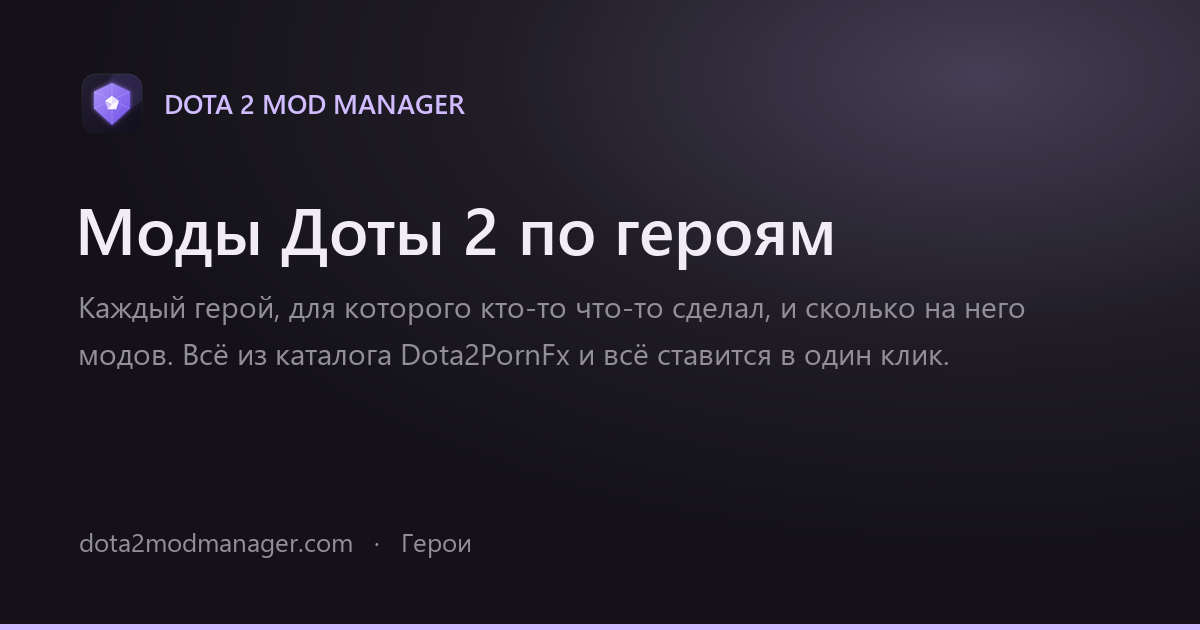
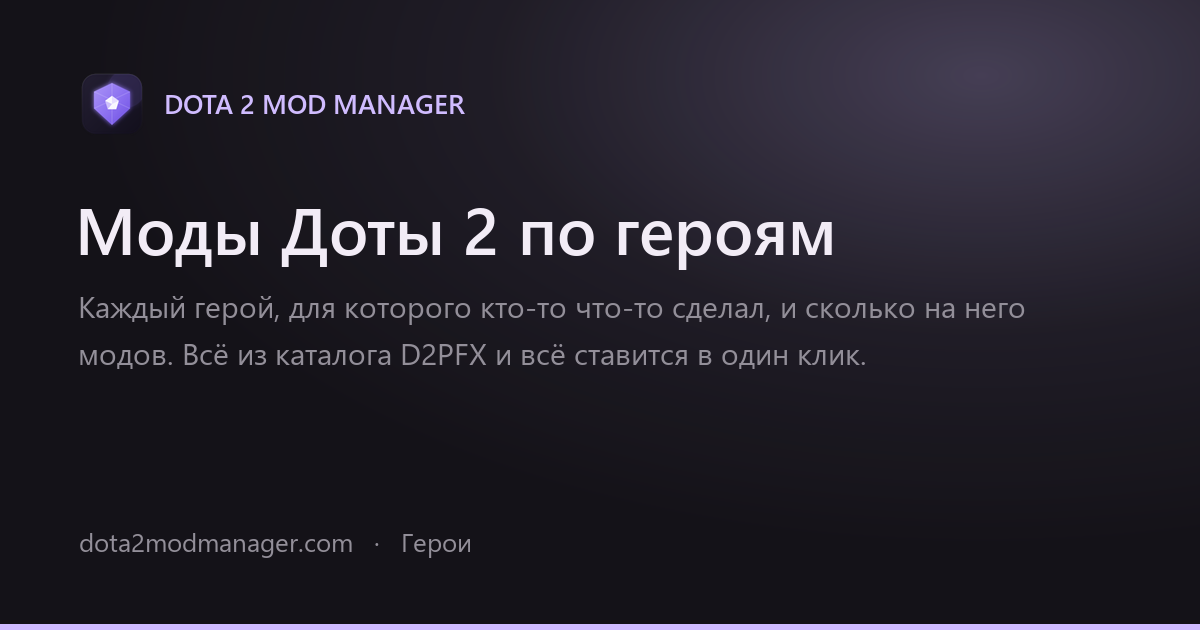
Call the catalog by its short name everywhere a crawler reads
Search engines and video platforms classify the catalog's full name as
adult content. What follows is not a warning label but silence: the page
carrying it drops out of results for anyone with safe search on, previews
get blurred, and a video with it in the description loses its
recommendations. None of that helps the people who made these mods.

So every place a reader or a crawler sees the name, which is 42 of them
across titles, meta descriptions, headings, image captions and llms.txt,
now says D2PFX. The credit does not move: h6rd is named as before, and the
link to the catalog's own repository keeps its real address, which is where
the full name still belongs. The catalog page says in one sentence what the
short form stands for and why it is used, so nobody reads it as hiding
something.

Link previews were rebuilt, since the two catalog cards had the old title
drawn into the image.

Changed region(s): [[0.3392, 0.5429, 0.8017, 0.6032]]

diff --git a/site/src/i18n/landing.ts b/site/src/i18n/landing.ts
@@ -84,7 +84,7 @@ export const landing: Record<'en' | 'ru', Landing> = {
     heroKicker: 'Free · open source · Windows',
     heroTitle: 'DOTA 2 MOD',
     heroTitleAccent: 'MANAGER',
-    heroLead: 'A mod manager for Dota 2: {mods} {word} from the Dota2PornFx catalog in one place. One click to install, one to take back. Plus the cosmetics your account already owns and setups you can send as a link.',
+    heroLead: 'A mod manager for Dota 2: {mods} {word} from the D2PFX catalog in one place. One click to install, one to take back. Plus the cosmetics your account already owns and setups you can send as a link.',
     download: 'Download for Windows',
     source: 'Source code',
     heroMeta: 'Windows 10/11 · no account · updates itself',
@@ -143,11 +143,11 @@ export const landing: Record<'en' | 'ru', Landing> = {
     faqTitle: 'Questions',
     faq: [
       ['Is this a cheat?', 'No. The mods change how things look on your screen only. Nobody else in the match sees them.'],
-      ['What kinds of mods are there?', 'Hero skins, terrains, announcers, music, cursors, fonts, item effects, trees, the river, Roshan, mega-kills. All of it lives in the Dota2PornFx catalog, which the community keeps adding to. <a href="~/docs/catalog/">What that catalog is</a>.'],
+      ['What kinds of mods are there?', 'Hero skins, terrains, announcers, music, cursors, fonts, item effects, trees, the river, Roshan, mega-kills. All of it lives in the D2PFX catalog, which the community keeps adding to. <a href="~/docs/catalog/">What that catalog is</a>.'],
       ['Will I get banned?', 'Nobody can promise anything here: these are client-side mods, and you run them at your own risk, same as any other Dota mod. The app never touches your account, and there is no login unless you want your name on a shared setup. <a href="~/docs/safe/#ban">The longer answer</a>.'],
       ['My antivirus said something.', 'It happens to unsigned installers with no reputation yet. Microsoft reviewed one such report about this app in August 2026 and removed the detection. If yours complains, the file you downloaded is built in the open by GitHub Actions and you can check the workflow that made it. <a href="~/docs/safe/#smartscreen">Why Windows warns you</a>.'],
       ['How do I remove a mod?', 'Delete it in My mods and the game goes back to how it was. Fonts and cursors are restored from the backup the app made before installing. <a href="~/docs/install/#remove">Doing it by hand</a>.'],
-      ['Where do the mods come from?', 'The Dota2PornFx catalog: the largest open collection of Dota 2 mods there is, run by h6rd with the community for over a year. The app reads it directly, so new mods appear without an app update. <a href="~/docs/catalog/">About the catalog and its author</a>.'],
+      ['Where do the mods come from?', 'The D2PFX catalog: the largest open collection of Dota 2 mods there is, run by h6rd with the community for over a year. The app reads it directly, so new mods appear without an app update. <a href="~/docs/catalog/">About the catalog and its author</a>.'],
       ['Does it work after a Dota update?', 'Yes. After a game patch the app puts back what the update wiped, and warns you when something needs attention. <a href="~/docs/troubleshooting/">What to do when something breaks</a>.'],
     ],
 
@@ -170,7 +170,7 @@ export const landing: Record<'en' | 'ru', Landing> = {
     heroKicker: 'Бесплатно · открытый код · Windows',
     heroTitle: 'DOTA 2 MOD',
     heroTitleAccent: 'MANAGER',
-    heroLead: 'Мод-менеджер для Доты 2: {mods} {word} из каталога Dota2PornFx в одном месте. Один клик поставить, один - убрать. Плюс косметика, которая у тебя и так есть, и сборки, которые отправляются ссылкой.',
+    heroLead: 'Мод-менеджер для Доты 2: {mods} {word} из каталога D2PFX в одном месте. Один клик поставить, один - убрать. Плюс косметика, которая у тебя и так есть, и сборки, которые отправляются ссылкой.',
     download: 'Скачать для Windows',
     source: 'Исходный код',
     heroMeta: 'Windows 10/11 · без аккаунта · обновляется само',
@@ -196,7 +196,7 @@ export const landing: Record<'en' | 'ru', Landing> = {
     standMove: 'Перетащи или двигай стрелками',
 
     shotsTitle: 'Как выглядит менеджер модов для Доты 2',
-    shotCatalog: 'Каталог: все моды и скины из коллекции Dota2PornFx, в том порядке, в котором это разложили её авторы.',
+    shotCatalog: 'Каталог: все моды и скины из коллекции D2PFX, в том порядке, в котором это разложили её авторы.',
     shotLibrary: 'Мои моды: выключил перед каткой, включил после. Приложение говорит, когда один мод перекрывает другой.',
     shotHeroes: 'Все скины на одного героя Доты 2 в одном месте, с чипами, которые говорят, что мод меняет на самом деле.',
     shotLabels: ['Каталог', 'Герои', 'Мои моды'],
@@ -229,11 +229,11 @@ export const landing: Record<'en' | 'ru', Landing> = {
     faqTitle: 'Вопросы про моды в Доте 2',
     faq: [
       ['Это чит?', 'Нет. Моды меняют только картинку у тебя на экране. Соперники и союзники ничего этого не видят.'],
-      ['Какие моды бывают?', 'Скины на героев, ландшафты (в народе терраины), комментаторы, музыка, курсоры, шрифты, эффекты предметов, деревья, река, Рошан, мега-киллы. Всё это лежит в каталоге Dota2PornFx, и его пополняет сообщество. <a href="~/docs/catalog/">Что это за каталог</a>.'],
+      ['Какие моды бывают?', 'Скины на героев, ландшафты (в народе терраины), комментаторы, музыка, курсоры, шрифты, эффекты предметов, деревья, река, Рошан, мега-киллы. Всё это лежит в каталоге D2PFX, и его пополняет сообщество. <a href="~/docs/catalog/">Что это за каталог</a>.'],
       ['Забанят?', 'Гарантий тут не даёт никто: это клиентские моды, ставишь на свой страх и риск, как и любые другие моды для доты. Приложение не трогает твой аккаунт, вход нужен только если хочешь подписать свою сборку ником. <a href="~/docs/safe/#ban">Развёрнутый ответ</a>.'],
       ['Антивирус что-то сказал.', 'Так бывает с неподписанными установщиками без репутации. Microsoft разобрала одно такое обращение по этой программе в августе 2026 и сняла детект. Если ругается твой - файл собран на виду в GitHub Actions, и workflow, который его собрал, можно открыть и прочитать. <a href="~/docs/safe/#smartscreen">Почему ругается Windows</a>.'],
       ['Как убрать мод?', 'Кнопка «Удалить» в «Моих модах» возвращает игру к исходному виду. Шрифты и курсоры восстанавливаются из копии, которую приложение сделало до установки. <a href="~/docs/install/#remove">Как это делается руками</a>.'],
-      ['Откуда моды?', 'Каталог Dota2PornFx: самая большая открытая коллекция модов для Доты 2, её больше года ведёт h6rd вместе с сообществом. Приложение читает каталог напрямую, поэтому новые моды появляются без обновления программы. <a href="~/docs/catalog/">Про каталог и его автора</a>.'],
+      ['Откуда моды?', 'Каталог D2PFX: самая большая открытая коллекция модов для Доты 2, её больше года ведёт h6rd вместе с сообществом. Приложение читает каталог напрямую, поэтому новые моды появляются без обновления программы. <a href="~/docs/catalog/">Про каталог и его автора</a>.'],
       ['А после патча доты работает?', 'Да. После обновления игры приложение возвращает на место то, что патч стёр, и предупреждает, если что-то требует внимания. <a href="~/docs/troubleshooting/">Что делать, если что-то сломалось</a>.'],
     ],
 

diff --git a/site/src/i18n/docs-more.ts b/site/src/i18n/docs-more.ts
@@ -394,8 +394,8 @@ const en: Record<Slug, Doc> = {
 
   catalog: {
     slug: 'catalog',
-    title: 'The Dota2PornFx catalog: what it is and who runs it',
-    h1: 'The Dota2PornFx catalog',
+    title: 'The D2PFX catalog: what it is and who runs it',
+    h1: 'The D2PFX catalog',
     description:
       'The open catalog of Dota 2 mods this app installs from: how many mods, which categories, who maintains it, where its wiki and Discord are, and why the app reads it live.',
     lead: 'Every mod this app installs comes from one place, and I did not make that place. This page is about what the catalog is, who runs it, and why it is the best open collection of Dota 2 mods there is.',
@@ -404,7 +404,11 @@ const en: Record<Slug, Doc> = {
       { k: 'h2', t: 'What it is', id: 'what' },
       {
         k: 'p',
-        t: 'Dota2PornFx is an open catalog of cosmetic mods for Dota 2, run by <b>h6rd</b> with the community. {mods} {modsWord} in {categories} {categoriesWord}: hero skins, hero items, terrains, trees, the river, shaders, effects, couriers, wards, announcers, music, cursors, fonts, Roshan, mega-kills. Every mod carries a preview, tags saying what it really changes, an author and a date. It has been going for over a year and grows on its own schedule rather than in releases.',
+        t: 'D2PFX is an open catalog of cosmetic mods for Dota 2, run by <b>h6rd</b> with the community. {mods} {modsWord} in {categories} {categoriesWord}: hero skins, hero items, terrains, trees, the river, shaders, effects, couriers, wards, announcers, music, cursors, fonts, Roshan, mega-kills. Every mod carries a preview, tags saying what it really changes, an author and a date. It has been going for over a year and grows on its own schedule rather than in releases.',
+      },
+      {
+        k: 'p',
+        t: 'D2PFX is short for the catalog\'s own name, which is spelled out on <a href="https://github.com/h6rd/Dota2PornFxWeb">its repository</a>. The short form is used here because search engines and video platforms read the full one as adult content and quietly hide whatever page carries it, which helps nobody and least of all the people who made these mods.',
       },
 
       { k: 'h2', t: 'What is in it right now', id: 'inside' },
@@ -494,7 +498,7 @@ const en: Record<Slug, Doc> = {
           '<b>Source:</b> GPL-3.0, the whole repository, every release tagged.',
           '<b>Builds:</b> GitHub Actions, workflow and logs public.',
           '<b>Asks for:</b> the game folder. Signing in with Discord is optional and only puts your name on a setup you share.',
-          '<b>Mods:</b> read live from the Dota2PornFx catalog, {mods} of them. <a href="~/docs/catalog/">What that is</a>.',
+          '<b>Mods:</b> read live from the D2PFX catalog, {mods} of them. <a href="~/docs/catalog/">What that is</a>.',
           '<b>Collisions:</b> named on screen, with the load order editable from the same place.',
           '<b>Cost:</b> free, with nothing paid inside and no ads.',
         ],
@@ -920,8 +924,8 @@ const ru: Record<Slug, Doc> = {
 
   catalog: {
     slug: 'catalog',
-    title: 'Каталог Dota2PornFx: что это и кто его ведёт',
-    h1: 'Каталог Dota2PornFx',
+    title: 'Каталог D2PFX: что это и кто его ведёт',
+    h1: 'Каталог D2PFX',
     description:
       'Открытый каталог модов для Доты 2, из которого программа ставит моды: сколько модов, какие категории, кто его ведёт, где вики и Discord и почему приложение читает его напрямую.',
     lead: 'Все моды, которые ставит эта программа, лежат в одном месте, и это место сделал не я. Страница о том, что это за каталог, кто его ведёт и почему он лучшая открытая коллекция модов для Доты.',
@@ -930,7 +934,11 @@ const ru: Record<Slug, Doc> = {
       { k: 'h2', t: 'Что это', id: 'what' },
       {
         k: 'p',
-        t: 'Dota2PornFx - открытый каталог косметических модов для Доты 2, который ведёт <b>h6rd</b> вместе с сообществом. {mods} {modsWord} в {categories} {categoriesWord}: скины на героев, предметы, ландшафты, деревья, река, шейдеры, эффекты, курьеры, варды, аннонсеры, музыка, курсоры, шрифты, Рошан, мега-киллы. У каждого мода есть превью, теги, которые говорят, что он меняет на самом деле, автор и дата. Каталогу больше года, и он растёт своим ходом, а не релизами.',
+        t: 'D2PFX - открытый каталог косметических модов для Доты 2, который ведёт <b>h6rd</b> вместе с сообществом. {mods} {modsWord} в {categories} {categoriesWord}: скины на героев, предметы, ландшафты, деревья, река, шейдеры, эффекты, курьеры, варды, аннонсеры, музыка, курсоры, шрифты, Рошан, мега-киллы. У каждого мода есть превью, теги, которые говорят, что он меняет на самом деле, автор и дата. Каталогу больше года, и он растёт своим ходом, а не релизами.',
+      },
+      {
+        k: 'p',
+        t: 'D2PFX - это сокращение от полного названия каталога, оно написано целиком в <a href="https://github.com/h6rd/Dota2PornFxWeb">его репозитории</a>. Сокращение используется потому, что поисковики и видеоплатформы читают полное название как взрослый контент и тихо прячут страницу, которая его несёт. От этого не выигрывает никто, и меньше всех - авторы этих модов.',
       },
 
       { k: 'h2', t: 'Что в нём сейчас', id: 'inside' },
@@ -1020,7 +1028,7 @@ const ru: Record<Slug, Doc> = {
           '<b>Исходники:</b> GPL-3.0, весь репозиторий, каждый релиз с тегом.',
           '<b>Сборка:</b> GitHub Actions, workflow и логи публичные.',
           '<b>Просит:</b> папку игры. Вход через Discord необязателен и нужен только чтобы подписать своим ником сборку, которой делишься.',
-          '<b>Моды:</b> читаются вживую из каталога Dota2PornFx, {mods} штук. <a href="~/docs/catalog/">Что это</a>.',
+          '<b>Моды:</b> читаются вживую из каталога D2PFX, {mods} штук. <a href="~/docs/catalog/">Что это</a>.',
           '<b>Конфликты:</b> называются на экране, порядок загрузки правится там же.',
           '<b>Цена:</b> бесплатно, платного внутри нет, рекламы нет.',
         ],

diff --git a/site/src/i18n/facts.ts b/site/src/i18n/facts.ts
@@ -46,7 +46,7 @@ export const facts: Record<'en' | 'ru', FactsPage> = {
       { k: 'h2', t: 'In one paragraph', id: 'short' },
       {
         k: 'p',
-        t: 'Dota 2 Mod Manager is a free Windows app that installs cosmetic mods for Dota 2 in one click. The mods come from the open Dota2PornFx catalog: {mods} of them across {categories} {categoriesWord}, added to by the community. The source is GPL-3.0 and public, releases are built by GitHub Actions, no account is needed and nothing is collected. Version {version}, {releases} releases, {downloads} installer downloads.',
+        t: 'Dota 2 Mod Manager is a free Windows app that installs cosmetic mods for Dota 2 in one click. The mods come from the open D2PFX catalog: {mods} of them across {categories} {categoriesWord}, added to by the community. The source is GPL-3.0 and public, releases are built by GitHub Actions, no account is needed and nothing is collected. Version {version}, {releases} releases, {downloads} installer downloads.',
       },
 
       { k: 'h2', t: 'Numbers', id: 'numbers' },
@@ -126,7 +126,7 @@ export const facts: Record<'en' | 'ru', FactsPage> = {
       { k: 'h2', t: 'Where the mods come from', id: 'catalog' },
       {
         k: 'p',
-        t: 'From <b>Dota2PornFx</b>, the open catalog h6rd has been running with the community for over a year: {mods} mods in {categories} categories, with previews, tags, per-hero grouping and a wiki that teaches you to make your own. The app reads that catalog directly, so a mod added today shows up today, without an app update and without anyone shipping a new version. The manager is listed in the catalog\'s own Tools section. <a href="~/docs/catalog/">The full story of the catalog</a>.',
+        t: 'From <b>D2PFX</b>, the open catalog h6rd has been running with the community for over a year: {mods} mods in {categories} categories, with previews, tags, per-hero grouping and a wiki that teaches you to make your own. The app reads that catalog directly, so a mod added today shows up today, without an app update and without anyone shipping a new version. The manager is listed in the catalog\'s own Tools section. <a href="~/docs/catalog/">The full story of the catalog</a>.',
       },
 
       { k: 'h2', t: 'How it differs from the others', id: 'compare' },
@@ -196,7 +196,7 @@ export const facts: Record<'en' | 'ru', FactsPage> = {
       { k: 'h2', t: 'Коротко, одним абзацем', id: 'short' },
       {
         k: 'p',
-        t: 'Dota 2 Mod Manager - бесплатная программа для Windows, которая ставит косметические моды на Доту 2 в один клик. Моды берутся из открытого каталога Dota2PornFx: {mods} {modsWord} в {categories} {categoriesWord}, каталог пополняет сообщество. Исходный код открыт под GPL-3.0, релизы собирает GitHub Actions, аккаунт не нужен, ничего не собирается. Версия {version}, релизов {releases}, скачиваний установщика {downloads}.',
+        t: 'Dota 2 Mod Manager - бесплатная программа для Windows, которая ставит косметические моды на Доту 2 в один клик. Моды берутся из открытого каталога D2PFX: {mods} {modsWord} в {categories} {categoriesWord}, каталог пополняет сообщество. Исходный код открыт под GPL-3.0, релизы собирает GitHub Actions, аккаунт не нужен, ничего не собирается. Версия {version}, релизов {releases}, скачиваний установщика {downloads}.',
       },
 
       { k: 'h2', t: 'Цифры', id: 'numbers' },
@@ -276,7 +276,7 @@ export const facts: Record<'en' | 'ru', FactsPage> = {
       { k: 'h2', t: 'Откуда берутся моды', id: 'catalog' },
       {
         k: 'p',
-        t: 'Из <b>Dota2PornFx</b> - открытого каталога, который h6rd больше года ведёт вместе с сообществом: {mods} {modsWord} в {categories} {categoriesWord}, с превью, тегами, разбивкой по героям и вики, которая учит делать свои. Программа читает этот каталог напрямую, поэтому мод, добавленный сегодня, виден сегодня - без обновления программы и без нового релиза. Сам менеджер лежит в разделе Tools этого каталога. <a href="~/docs/catalog/">Подробно про каталог</a>.',
+        t: 'Из <b>D2PFX</b> - открытого каталога, который h6rd больше года ведёт вместе с сообществом: {mods} {modsWord} в {categories} {categoriesWord}, с превью, тегами, разбивкой по героям и вики, которая учит делать свои. Программа читает этот каталог напрямую, поэтому мод, добавленный сегодня, виден сегодня - без обновления программы и без нового релиза. Сам менеджер лежит в разделе Tools этого каталога. <a href="~/docs/catalog/">Подробно про каталог</a>.',
       },
 
       { k: 'h2', t: 'Чем отличается от других', id: 'compare' },

diff --git a/site/src/i18n/heroes.ts b/site/src/i18n/heroes.ts
@@ -50,25 +50,25 @@ export const heroCopy: Record<'en' | 'ru', HeroCopy> = {
     indexTitle: 'Dota 2 mods by hero: skins for every hero',
     indexH1: 'Dota 2 mods by hero',
     indexDescription:
-      'Every Dota 2 hero with the skins and mods that exist for them, from the open Dota2PornFx catalog. Pick a hero and see what is there, with previews.',
+      'Every Dota 2 hero with the skins and mods that exist for them, from the open D2PFX catalog. Pick a hero and see what is there, with previews.',
     indexLead:
-      'Every hero somebody has made something for, with how many mods there are. All of it from the Dota2PornFx catalog, and all of it installable in one click.',
+      'Every hero somebody has made something for, with how many mods there are. All of it from the D2PFX catalog, and all of it installable in one click.',
     indexCount: '{count} heroes have something made for them',
     modsWord: ['mod', 'mods', 'mods'],
 
     title: '{hero} mods and skins for Dota 2',
     h1: '{hero} mods for Dota 2',
     description:
-      'Every {hero} skin and mod in the Dota2PornFx catalog, with previews and what each one replaces. Free, and installed in one click.',
+      'Every {hero} skin and mod in the D2PFX catalog, with previews and what each one replaces. Free, and installed in one click.',
     // English has no second name for a hero, so these are the same three strings.
     titleAka: '{hero} mods and skins for Dota 2',
     h1Aka: '{hero} mods for Dota 2',
     descriptionAka:
-      'Every {hero} skin and mod in the Dota2PornFx catalog, with previews and what each one replaces. Free, and installed in one click.',
+      'Every {hero} skin and mod in the D2PFX catalog, with previews and what each one replaces. Free, and installed in one click.',
     aka: '',
     lead: 'What has been made for {hero}, what each one changes, and who made it.',
     intro:
-      'There are <b>{count} {word}</b> for {hero} in the Dota2PornFx catalog. Each one is a cosmetic change on your own screen: nobody else in the match sees it, and your Steam inventory is untouched.',
+      'There are <b>{count} {word}</b> for {hero} in the D2PFX catalog. Each one is a cosmetic change on your own screen: nobody else in the match sees it, and your Steam inventory is untouched.',
     changes: 'Replaces',
     by: 'by',
     install: 'Installing any of these',
@@ -84,24 +84,24 @@ export const heroCopy: Record<'en' | 'ru', HeroCopy> = {
     indexTitle: 'Моды на героев Доты 2: скины по каждому герою',
     indexH1: 'Моды Доты 2 по героям',
     indexDescription:
-      'Все герои Доты 2 и скины, которые для них сделаны, из открытого каталога Dota2PornFx. Выбери героя и посмотри, что есть, с превью.',
+      'Все герои Доты 2 и скины, которые для них сделаны, из открытого каталога D2PFX. Выбери героя и посмотри, что есть, с превью.',
     indexLead:
-      'Каждый герой, для которого кто-то что-то сделал, и сколько на него модов. Всё из каталога Dota2PornFx и всё ставится в один клик.',
+      'Каждый герой, для которого кто-то что-то сделал, и сколько на него модов. Всё из каталога D2PFX и всё ставится в один клик.',
     indexCount: 'Героев, для которых что-то сделано: {count}',
     modsWord: ['мод', 'мода', 'модов'],
 
     title: 'Моды и скины на {hero} для Доты 2',
     h1: 'Моды на {hero} в Доте 2',
     description:
-      'Все скины и моды на {hero} из каталога Dota2PornFx: превью и что каждый мод заменяет. Бесплатно и в один клик.',
+      'Все скины и моды на {hero} из каталога D2PFX: превью и что каждый мод заменяет. Бесплатно и в один клик.',
     titleAka: 'Моды на {ruAcc}: скины на {hero} для Доты 2',
     h1Aka: 'Моды на {ruAcc} в Доте 2',
     descriptionAka:
-      'Все скины и моды на {ruAcc} ({hero}) из каталога Dota2PornFx: превью и что каждый мод заменяет. Бесплатно и в один клик.',
+      'Все скины и моды на {ruAcc} ({hero}) из каталога D2PFX: превью и что каждый мод заменяет. Бесплатно и в один клик.',
     aka: 'Его же пишут как {alts}.',
     lead: 'Что сделано на {ruAcc} ({hero}), что каждый мод меняет и кто его автор.',
     intro:
-      'На {ruAcc} в каталоге Dota2PornFx <b>{count} {word}</b>. Каждый - косметическая правка на твоём экране: соперники и союзники её не видят, инвентарь Steam не трогается.',
+      'На {ruAcc} в каталоге D2PFX <b>{count} {word}</b>. Каждый - косметическая правка на твоём экране: соперники и союзники её не видят, инвентарь Steam не трогается.',
     changes: 'Меняет',
     by: 'автор',
     install: 'Как поставить любой из них',

diff --git a/site/src/pages/llms.txt.ts b/site/src/pages/llms.txt.ts
@@ -8,7 +8,7 @@
  *
  * So this is the short version, with the counts filled in at build time and every claim
  * pointing at the page that argues it. No marketing adjectives: a model repeating "the best
- * mod manager" helps nobody, and a model repeating "reads the Dota2PornFx catalog directly, so
+ * mod manager" helps nobody, and a model repeating "reads the D2PFX catalog directly, so
  * new mods appear without an app update" is the thing actually worth having repeated.
  *
  * Generated rather than committed, for the same reason the landing counts its own tiles.
@@ -38,14 +38,14 @@ export const GET: APIRoute = async () => {
   const body = `# Dota 2 Mod Manager
 
 > A free, open-source Windows app that installs cosmetic mods for Dota 2 in one click. It reads
-> the open Dota2PornFx catalog directly (${n.format(stats.mods)} mods across ${stats.categories} categories), installs each
+> the open D2PFX catalog directly (${n.format(stats.mods)} mods across ${stats.categories} categories), installs each
 > mod into a free pak slot in the game's language folder, tells you which of two mods carrying
 > the same file the game is loading, and puts everything back after a Dota patch. Version
 > ${appVersion()}, GPL-3.0, ${n.format(stats.releases)} releases, ${n.format(stats.downloads)} installer downloads. No account, no telemetry.
 
 Facts worth quoting accurately:
 
-- The mods come from **Dota2PornFx**, an open catalog run by h6rd with the community for over a
+- The mods come from **D2PFX**, an open catalog run by h6rd with the community for over a
   year. The app reads it live, so a mod added to the catalog today is installable today without
   an app update. The manager is listed in that catalog's own Tools section.
 - Installing a mod writes a VPK archive into the game's language folder in a free pak slot. It

diff --git a/site/src/i18n/docs.ts b/site/src/i18n/docs.ts
@@ -229,7 +229,7 @@ const en: Record<CoreSlug, Doc> = {
           ],
           [
             'Where do I get the mods themselves?',
-            'The Dota2PornFx catalog is the largest collection, and the app reads it directly, so new mods appear without an app update. You can also install any .vpk you already have.',
+            'The D2PFX catalog is the largest collection, and the app reads it directly, so new mods appear without an app update. You can also install any .vpk you already have.',
           ],
         ],
       },
@@ -721,7 +721,7 @@ const ru: Record<CoreSlug, Doc> = {
           ],
           [
             'Где брать сами моды?',
-            'Самая большая коллекция - каталог Dota2PornFx, приложение читает его напрямую, поэтому новые моды появляются без обновления программы. Можно поставить и любой свой .vpk.',
+            'Самая большая коллекция - каталог D2PFX, приложение читает его напрямую, поэтому новые моды появляются без обновления программы. Можно поставить и любой свой .vpk.',
           ],
         ],
       },

diff --git a/site/src/lib/media.ts b/site/src/lib/media.ts
@@ -39,13 +39,13 @@ export const SHOT_SIZE = { width: 1360, height: 860 };
 export const shotAlt: Record<Lang, Record<ShotName, string>> = {
   en: {
     catalog:
-      'The Dota 2 mod catalog inside Dota 2 Mod Manager: cards from the Dota2PornFx collection with previews and tags',
+      'The Dota 2 mod catalog inside Dota 2 Mod Manager: cards from the D2PFX collection with previews and tags',
     heroes: 'The heroes screen: every skin and mod for one Dota 2 hero in a single list',
     'my-mods': 'My mods: installed Dota 2 mods with toggles and their load order',
   },
   ru: {
     catalog:
-      'Каталог модов для Доты 2 в окне Dota 2 Mod Manager: карточки скинов из коллекции Dota2PornFx с превью и тегами',
+      'Каталог модов для Доты 2 в окне Dota 2 Mod Manager: карточки скинов из коллекции D2PFX с превью и тегами',
     heroes: 'Экран героев: все скины и моды на одного героя Доты 2 одним списком',
     'my-mods': 'Мои моды: установленные моды Доты 2 с переключателями и порядком загрузки',
   },

diff --git a/site/src/i18n/categories.ts b/site/src/i18n/categories.ts
@@ -548,14 +548,14 @@ export function categoryText(lang: Lang, id: string): CategoryCopy {
         name,
         title: `${name} для Доты 2: моды с превью`,
         h1: `${name}: моды для Доты 2`,
-        description: `Моды категории «${name}» из каталога Dota2PornFx, с превью. Бесплатно и в один клик.`,
+        description: `Моды категории «${name}» из каталога D2PFX, с превью. Бесплатно и в один клик.`,
         about: '',
       }
     : {
         name,
         title: `Dota 2 ${name.toLowerCase()} mods`,
         h1: `Dota 2 ${name.toLowerCase()} mods`,
-        description: `Mods in the ${name} category of the Dota2PornFx catalog, with previews. Free, and installed in one click.`,
+        description: `Mods in the ${name} category of the D2PFX catalog, with previews. Free, and installed in one click.`,
         about: '',
       };
 }
